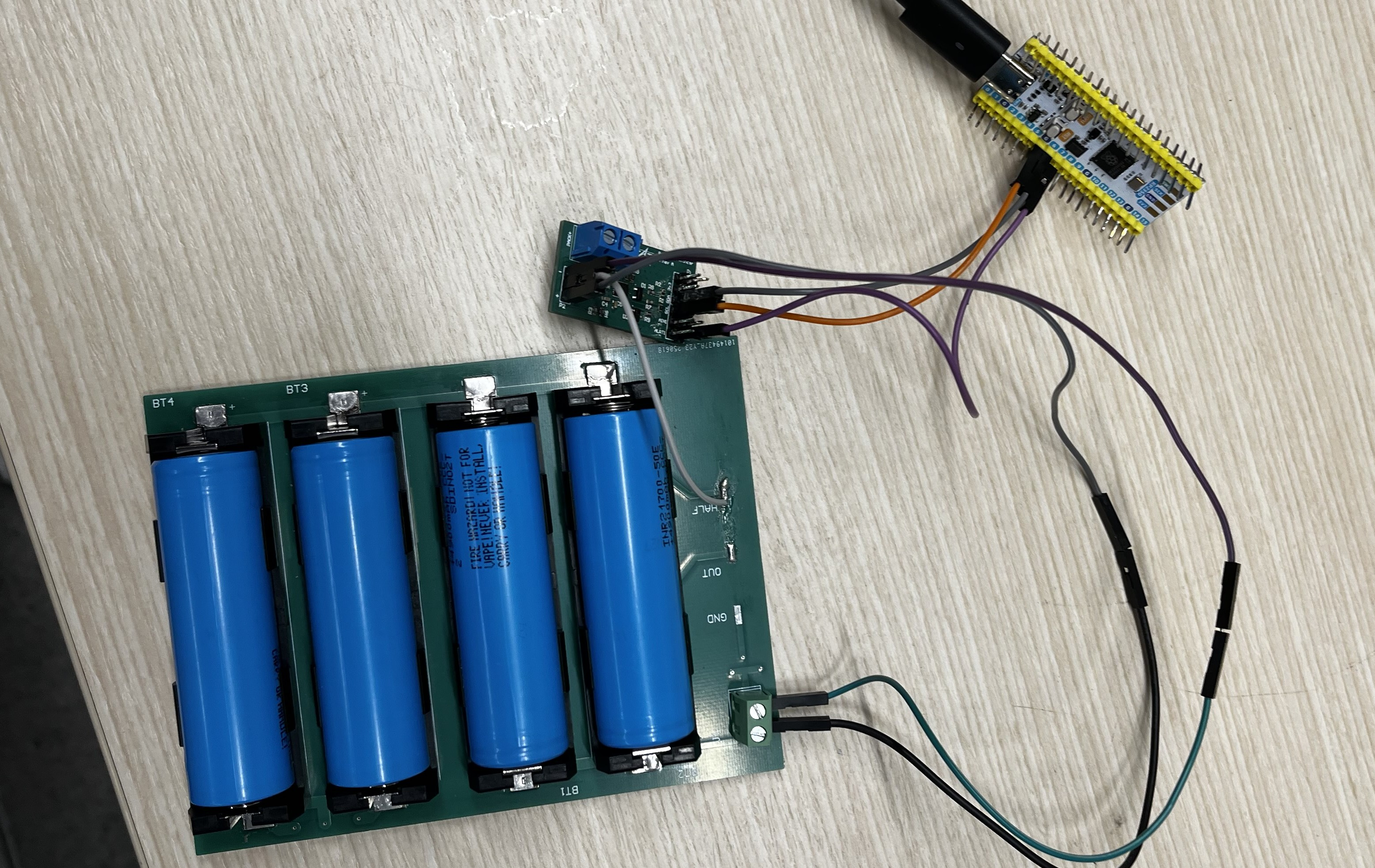
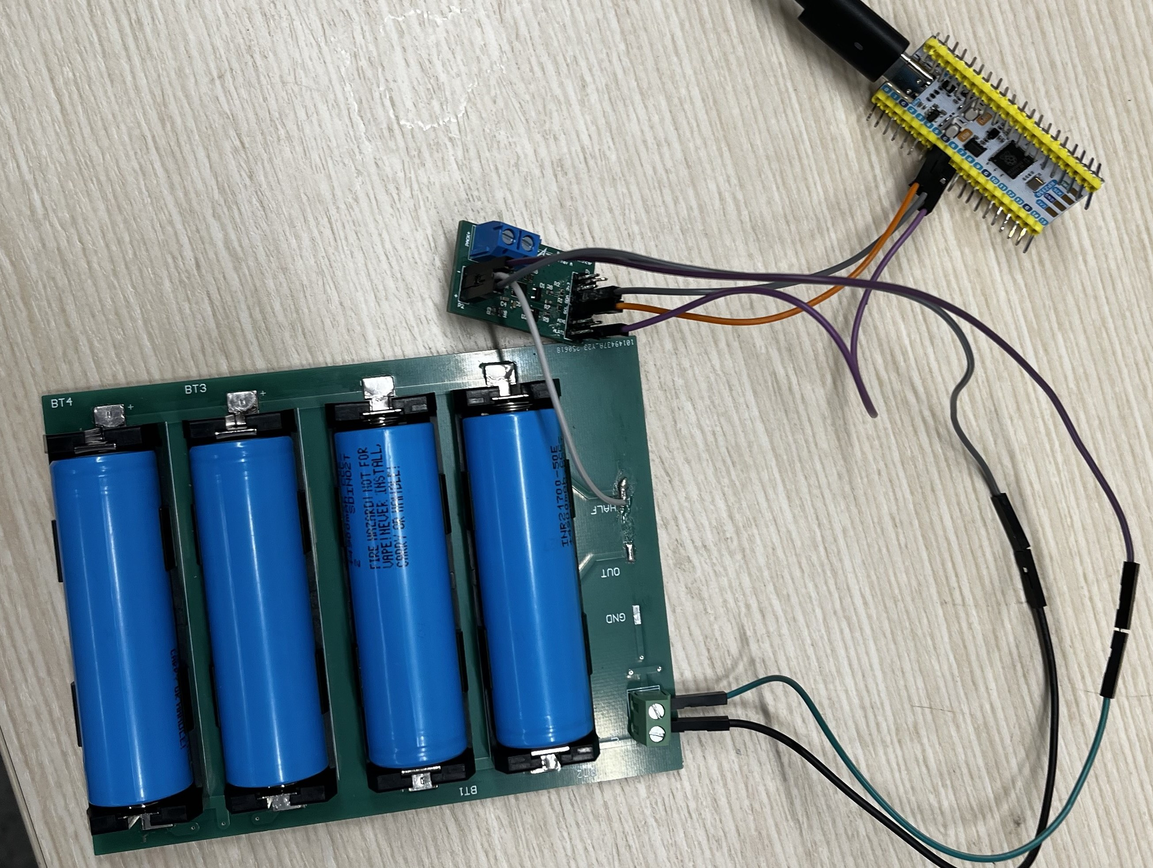
added balancer image

diff --git a/projects/utatBatteryBalancer.html b/projects/utatBatteryBalancer.html
@@ -157,11 +157,15 @@
     <div class="slider-track">
       <div class="img-ph slide is-active" data-slide>
         <span class="cap">Bare PCB</span>
-        <img src="../assets/images/projects/utat-battery-balancer/balancer_1.jpg" alt="Bare PCB">
+        <img src="../assets/images/projects/utat-battery-balancer/balancer_2.jpg" alt="Bare PCB">
       </div>
       <div class="img-ph slide" data-slide>
         <span class="cap">Assembled PCB</span>
-        <img src="../assets/images/projects/utat-battery-balancer/balancer_soldered.jpg" alt="Completed PCB">
+        <img src="../assets/images/projects/utat-battery-balancer/balancer_clear.jpg" alt="Completed PCB">
+      </div>
+      <div class="img-ph slide" data-slide>
+        <span class="cap">Testing setup</span>
+        <img src="../assets/images/projects/utat-battery-balancer/balancer_testing.JPG" alt="Battery balancer connected to the battery pack during testing">
       </div>
     </div>
     <button class="slider-arrow next" data-slider-next aria-label="Next image">›</button>
@@ -169,6 +173,7 @@
   <div class="slider-dots" data-slider-dots>
     <button class="dot is-active" aria-label="Show image 1"></button>
     <button class="dot" aria-label="Show image 2"></button>
+    <button class="dot" aria-label="Show image 3"></button>
   </div>
 </div>
 

diff --git a/assets/css/style.css b/assets/css/style.css
@@ -389,7 +389,12 @@ footer.sig{
 .slider-track{ flex: 1; min-width: 0; }
 .slider-track .slide{ display: none; cursor: zoom-in; }
 .slider-track .slide.is-active{ display: flex; }
-.slider-track .img-ph{ width: 100%; min-height: 300px; }
+.slider-track .img-ph{
+  width: 100%;
+  aspect-ratio: 4 / 3;
+  min-height: 0;
+  height: auto;
+}
 .slider-arrow{
   flex-shrink: 0;
   width: 38px;
@@ -422,7 +427,6 @@ footer.sig{
 .slider-dots .dot.is-active{ background: var(--accent); border-color: var(--accent); }
 
 @media (max-width: 620px){
-  .slider-track .img-ph{ min-height: 220px; }
   .slider-frame{ gap: 8px; }
   .slider-arrow{ width: 32px; height: 32px; font-size: 15px; }
 }
